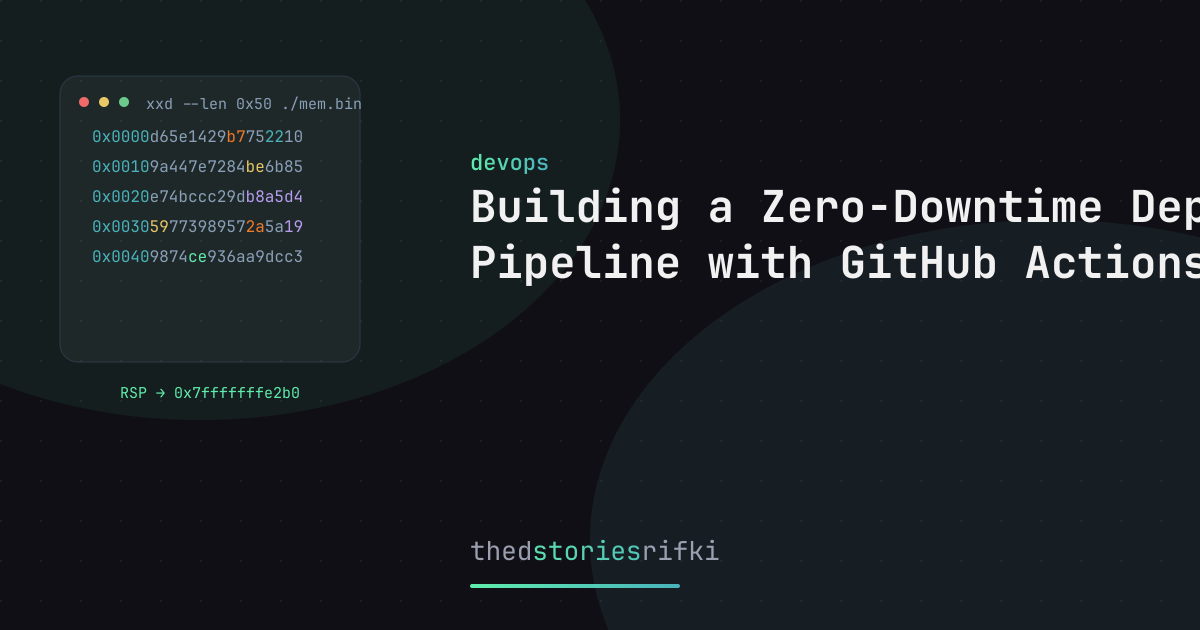
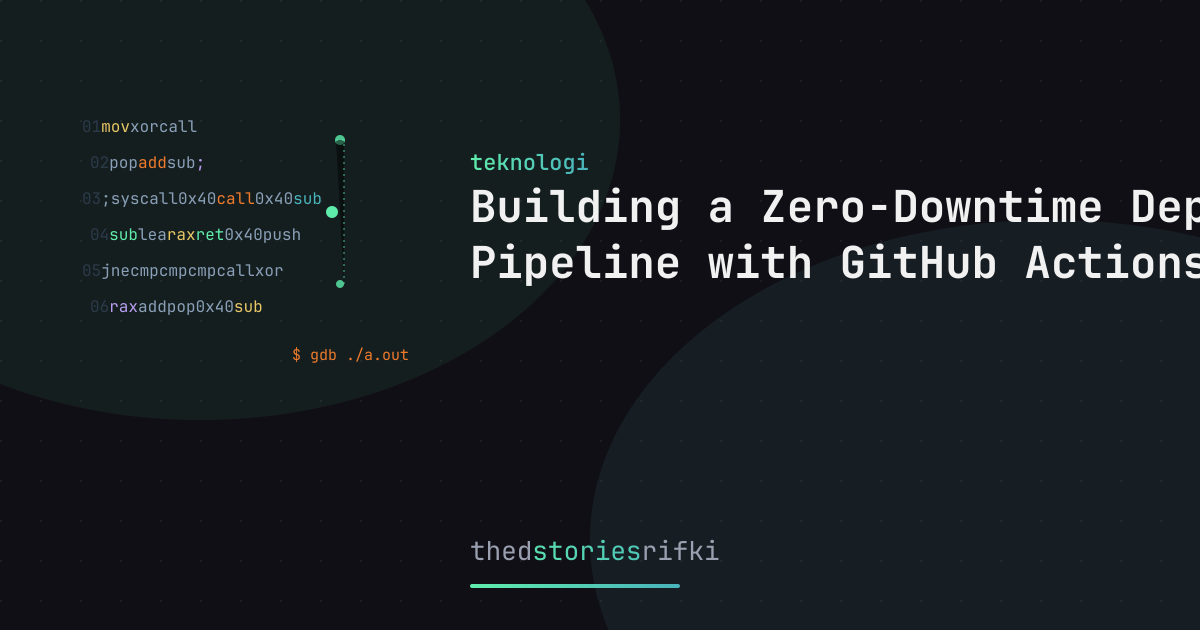
chore: restructure categories to match tagline
coding: bitwise, namespace, tipe-data, paradigma-prosedural-oop, rekursif, proposisi, demo-images
teknologi: pindah-windows-ke-linux, zero-downtime-deploy, nand2tetris-boolean-logic

diff --git a/src/content/posts/nand2tetris-boolean-logic.md b/src/content/posts/nand2tetris-boolean-logic.md
@@ -2,7 +2,7 @@
 title: "NAND Doang, Semua Jadi Ada: Catatan Night 1 Belajar Nand2Tetris"
 date: 2026-08-15
 description: "Kenapa satu gerbang logika paling sederhana bisa jadi fondasi seluruh sistem komputer, dan kenapa HDL bikin otakku harus di-reset dulu."
-category: notes
+category: coding
 lang: "id"
 tags: [nand2tetris, boolean-logic, digital-logic, hdl, low-level]
 draft: false

diff --git a/src/content/posts/demo-images/index.md b/src/content/posts/demo-images/index.md
@@ -2,7 +2,7 @@
 title: "Cara Kerja Internet: Dari Klik Sampai Tampil"
 date: 2026-08-26
 description: "Pernah penasaran apa yang terjadi setelah kamu klik link? Ini penjelasan sederhananya — dari DNS, TCP, TLS, sampai data sampai di layar kamu."
-category: notes
+category: coding
 lang: "id"
 tags: [networking, internet, dns, how-it-works]
 cover: ./images/cover.svg

diff --git a/src/content/posts/proposisi.md b/src/content/posts/proposisi.md
@@ -2,7 +2,7 @@
 title: "Logika Proposisi: Bahasa yang Komputer Pahami Sebelum Kamu"
 date: 2026-03-17
 description: "Sebelum ada Python, Java, atau C++ ada logika. Dan ternyata logika itu masih hidup di setiap baris kode yang kamu tulis."
-category: math
+category: coding
 lang: "id"
 tags: [logic, mathematics, cs-fundamentals, programming]
 draft: false

diff --git a/src/content/posts/zero-downtime-deploy.md b/src/content/posts/zero-downtime-deploy.md
@@ -2,7 +2,7 @@
 title: "Building a Zero-Downtime Deploy Pipeline with GitHub Actions"
 date: 2024-07-20
 description: "How I wired up a blue-green deployment pipeline using GitHub Actions, Docker, and a $6/mo VPS — no Kubernetes required."
-category: devops
+category: teknologi
 tags: [github-actions, docker, nginx, ci-cd, vps]
 draft: false
 ---

diff --git a/src/content/posts/namespace.md b/src/content/posts/namespace.md
@@ -2,7 +2,7 @@
 title: "Kenapa `using namespace std` Itu Kebiasaan yang Harus Dibuang"
 date: 2026-03-07
 description: "Satu baris kode yang ada di hampir semua tutorial C++ pemula, dan kenapa itu bisa jadi bom waktu di project besar."
-category: programming
+category: coding
 lang: "id"
 tags: [cpp, namespace, best-practices, tips]
 draft: false

diff --git a/src/content/posts/paradigma-prosedural-oop.md b/src/content/posts/paradigma-prosedural-oop.md
@@ -2,7 +2,7 @@
 title: "Paradigma Pemrograman: Bukan Soal Syntax, Tapi Cara Kamu Mikir"
 date: 2026-03-07
 description: "Apa bedanya prosedural, OOP, dan generik? Dan kenapa pilihan paradigma itu ngaruh banget ke cara kamu solve masalah."
-category: programming
+category: coding
 lang: "id"
 tags: [cpp, OOP, paradigma, pemrograman]
 draft: false

diff --git a/src/content/posts/bitwise.md b/src/content/posts/bitwise.md
@@ -2,7 +2,7 @@
 title: "Bitwise Operator: Skill Jadul yang Masih Relevan"
 date: 2026-03-07
 description: "Di era framework dan abstraksi tinggi, kenapa programmer masih perlu tau cara manipulasi bit langsung?"
-category: notes
+category: coding
 lang: "id"
 tags: [cpp, bitwise, low-level, performance, programming]
 draft: false

diff --git a/src/content/posts/rekursif.md b/src/content/posts/rekursif.md
@@ -2,7 +2,7 @@
 title: "Rekursif Itu Keren, Tapi Kamu Harus Tau Harganya"
 date: 2025-03-07
 description: "Rekursif kelihatan elegan dan pintar, tapi ada trade-off yang jarang dibahas di tutorial pemula."
-category: notes
+category: coding
 lang: "id"
 tags: [cpp, rekursif, loop, programming, performance]
 draft: false

diff --git a/src/content/posts/tipe-data.md b/src/content/posts/tipe-data.md
@@ -2,7 +2,7 @@
 title: "Tipe Data di C++: Kenapa Harus Milih-Milih?"
 date: 2026-03-07
 description: "Di PHP nggak pernah mikirin tipe data. Di C++ kamu dipaksa sadar bahwa setiap byte itu ada harganya."
-category: programming
+category: coding
 lang: "id"
 tags: [cpp, tipe-data, low-level, memory]
 draft: false

diff --git a/src/content/posts/pindah-windows-ke-linux.md b/src/content/posts/pindah-windows-ke-linux.md
@@ -2,7 +2,7 @@
 title: "Rasanya Pindah dari Windows ke Linux"
 date: 2024-07-13
 description: "Cerita pertama kali pindah dari Windows ke Linux, kaget, bingung, tapi ternyata seru banget."
-category: systems
+category: teknologi
 lang: "id"
 tags: [linux, windows, beginners, pengalaman]
 draft: false
